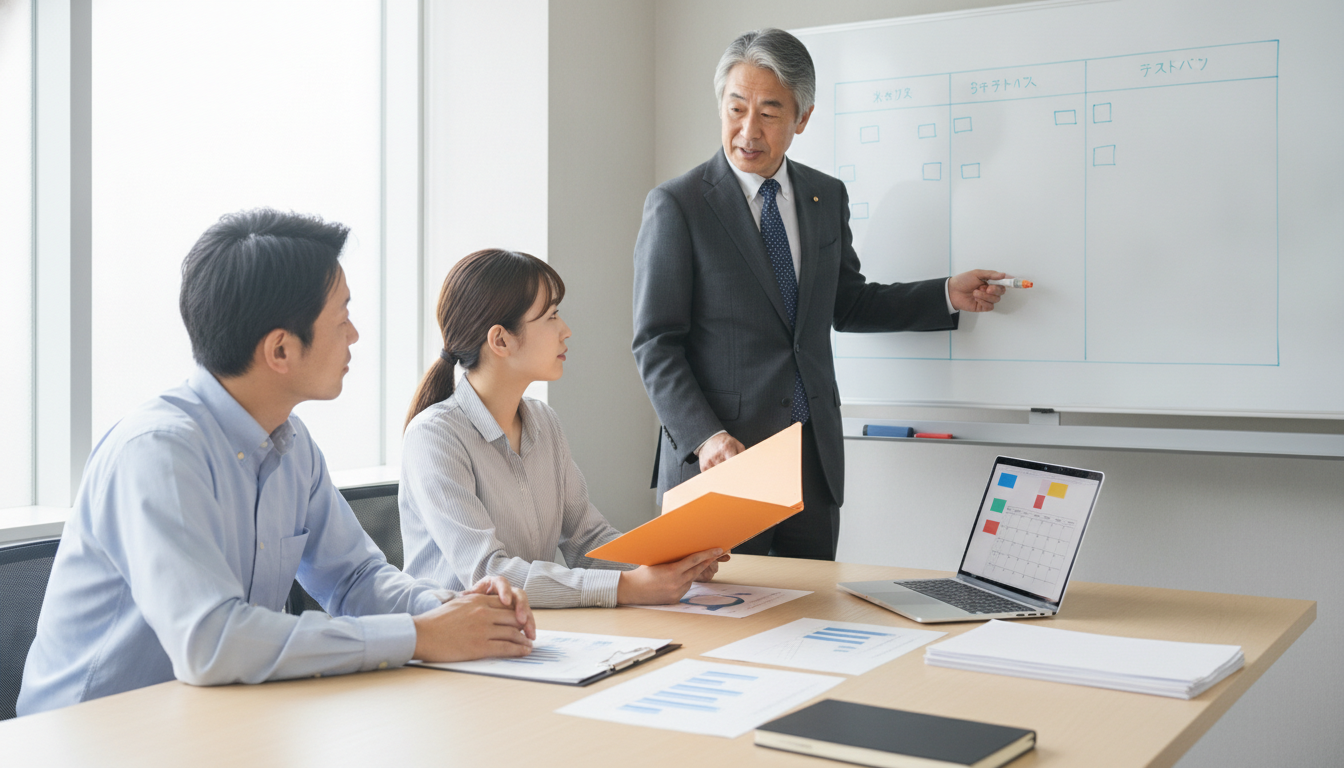
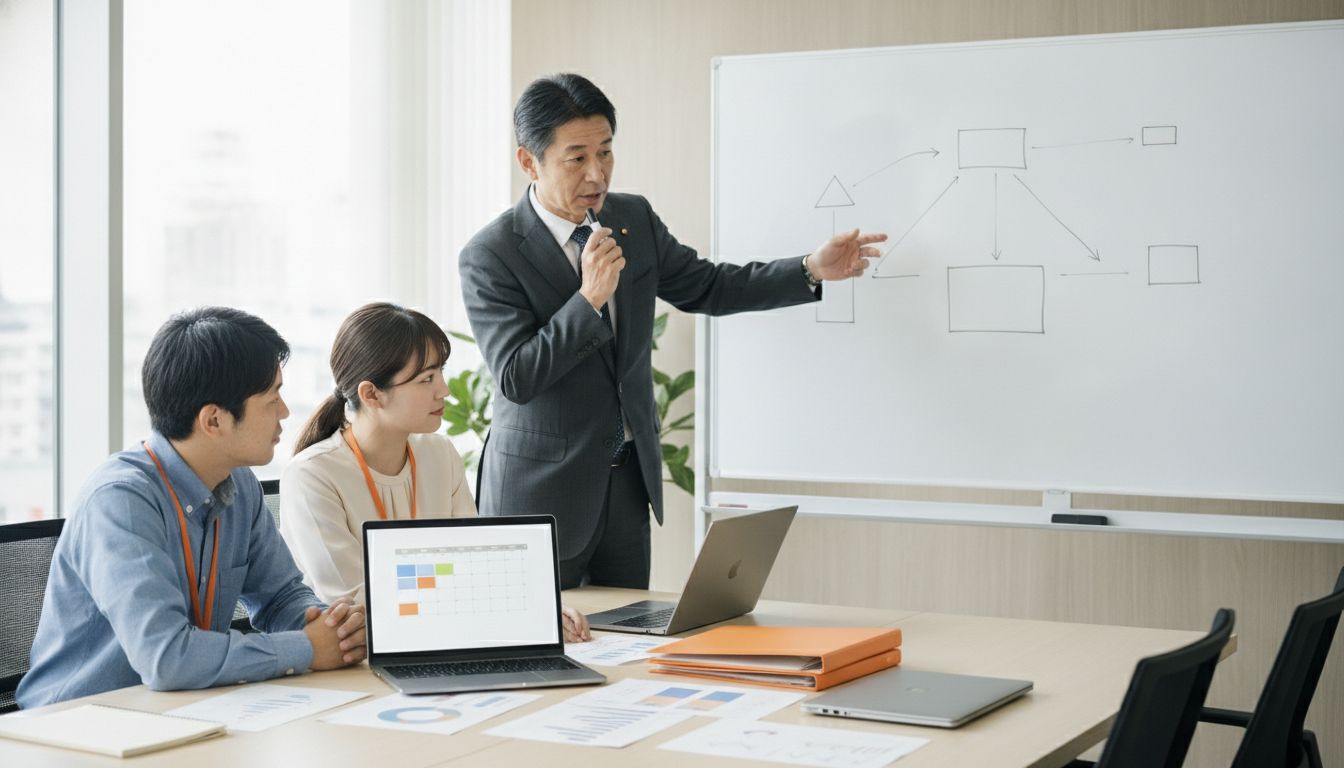
No.026: 社長の関与を必須にせず、採用を最優先にする担当者を置く内容に書き換え
- 3つの仕事に部署をまたいで適任の人を当てる内容に変更
- 兼任の限界と、採用を最優先にする担当者を置く理由の節を追加
- まとめ・FAQ・メタ情報を更新、画像1・2を再生成
- knowledge.md に K-004（適用範囲は No.026 のみ）を追加

Claude-Session: https://claude.ai/code/session_01MVhFnc9z1iMB51uu1opxbj

diff --git a/content/articles/out/No.026_article.html b/content/articles/out/No.026_article.html
@@ -1,74 +1,71 @@
-<!-- No.026 採用担当がいない会社は新卒採用をどう回す？｜「決める・会う・連絡する」に分ける
+<!-- No.026 採用担当がいない会社は新卒採用をどう回す？｜「決める・会う・連絡する」に分ける（v2 2026-09-28：社長の関与を必須にせず、部署をまたいで適任者を当てる内容に変更。採用を最優先にする担当者を置く理由を追加）
 タイトル（Studio の記事タイトル欄に入れる。本文には入れない）：採用担当がいない会社は新卒採用をどう回す？｜「決める・会う・連絡する」に分ける
-メタディスクリプション：採用担当がいない中小企業が新卒採用を回すには、採用の仕事を「決める」「会う」「連絡する」の3つに分け、社長・現場の社員・兼任の担当者で分担します。社長が出るべき場面、連絡を止めない仕組み、外部に任せてよいことと社内に残すことを、採用の現場に入ってきた立場から解説します。
+メタディスクリプション：採用担当がいない中小企業が新卒採用を回すには、採用の仕事を「決める」「会う」「連絡する」の3つに分け、部署をまたいでそれぞれに適任の人を当てます。兼任で回すときの役割と優先度の決め方、そして採用を最優先にする担当者を置くべき理由を、採用の現場に入ってきた立場から解説します。
 カテゴリ：6 採用体制・採用代行の選び方
-狙うプロンプト（層B）：採用担当 いない 中小企業／人事が一人 新卒採用 回し方／総務 兼任 採用
-H2 に指定する行：結論：全部を1人で抱えず、役割を3つに分ける／採用の仕事を3つに分けて担い手を決める／社長が担うのは「決めること」と「会うこと」／連絡と日程調整は、担当を1人決めて止めない／外部に任せてよいこと、社内に残すこと／まとめ／よくある質問
-画像（記事中）：【画像：会議 meeting】「採用の仕事を3つに〜」の直前／【画像：会社説明会 briefing】「社長が担うのは〜」の直前／【画像：担当者の事務作業 desk】「連絡と日程調整は〜」の直前
-表：「採用の仕事を3つに〜」の節に表1つ。Studio が表に非対応なら箇条書きに置き換える
+狙うプロンプト（層B）：採用担当 いない 中小企業／人事が一人 新卒採用 回し方／総務 兼任 採用／採用担当 専任 必要
+H2 に指定する行：結論：3つの仕事に適任の人を当て、いずれは採用を最優先にする担当者を置く／3つの仕事に、部署をまたいで適任の人を当てる／部署をまたぐときは、役割と優先度を先に決める／理想は、採用を最優先にする担当者を置くこと／まとめ／よくある質問
+画像（記事中）：【画像：会議 meeting】「3つの仕事に、部署をまたいで〜」の直前／【画像：会社説明会 briefing】「部署をまたぐときは〜」の直前／【画像：担当者の事務作業 desk】「理想は〜」の直前
+表：「3つの仕事に、部署をまたいで〜」の節に表1つ。Studio が表に非対応なら箇条書きに置き換える
 CTA：本文末尾の段落の下にボタンコンポーネント2つ。擬似ボタンは作らない
 著者ボックス：全記事共通。氏名「堀本 大然」、所属「株式会社VOCO」、役職「経営戦略本部マネージャー」、/member の本人ページへリンク
-一次情報：VOCO の運用（経営者が会社説明の場と一次面接に出る、当日〜3日以内の連絡、4回のリマインド、採用フルサポートの90%以上担当と週1回以上の定例）、採用担当がいない会社ほど「会う人手」と「決める人」が足りないという見立て（No.006）
+一次情報：堀本さんの指示（社長の関与は必須ではない。部署をまたいで適任者を当てる。理想は採用を最優先にする担当者の配置。兼任だと他業務が優先されて採用が止まり、会社の成長に響く）、VOCO の運用（当日〜3日以内の連絡、4回のリマインド、採用フルサポートの90%以上担当と週1回以上の定例）
 参考（構成の参考。文章は引用していない）：ネオキャリア「みんなの採用部」中小企業の新卒採用の課題／マルゴト「まるごと人事」採用担当の兼任／JMAM「中小企業の採用戦略」
 FAQPage JSON-LD：
 {"@context":"https://schema.org","@type":"FAQPage","mainEntity":[
-{"@type":"Question","name":"総務の兼任でも新卒採用は回せますか？","acceptedAnswer":{"@type":"Answer","text":"回せます。兼任の担当者には連絡と日程調整、記録を任せ、採用人数や内定の判断は社長が担います。役割を分けると、兼任でも学生を待たせずに進められます。"}},
-{"@type":"Question","name":"社長が採用に使う時間はどれくらい必要ですか？","acceptedAnswer":{"@type":"Answer","text":"時間の量より場面で決めます。シーズン初めの方針決め、会社説明の場、一次面接、内定の判断。この4つの場面に社長が出れば、残りは担当者や外部に任せられます。"}},
-{"@type":"Question","name":"採用代行に全部任せてもいいですか？","acceptedAnswer":{"@type":"Answer","text":"手を動かす仕事は任せられますが、決める仕事は社内に残します。採用人数や要件、内定の判断まで外部に任せると、入社後に「思っていた人と違う」が起きやすくなります。"}}]}
+{"@type":"Question","name":"総務の兼任でも新卒採用は回せますか？","acceptedAnswer":{"@type":"Answer","text":"回せます。兼任の担当者には連絡と日程調整、記録を任せ、決める仕事と会う仕事は、それぞれ適任の人に分けます。ただ、本業が忙しい時期に採用が止まりやすいため、採用を優先してよいと社内で決めておくことが大切です。"}},
+{"@type":"Question","name":"社長が採用に関わらないといけませんか？","acceptedAnswer":{"@type":"Answer","text":"必ずしも関わる必要はありません。大事なのは、採用人数や条件を決める権限を持った責任者がいることです。社長でも、役員や部門長でもかまいません。"}},
+{"@type":"Question","name":"採用担当者は専任で置くべきですか？","acceptedAnswer":{"@type":"Answer","text":"理想は、採用を最優先にできる担当者を置くことです。兼任だと、他の業務が忙しいときに採用が後回しになり、必要な時期に人が入らなくなります。専任が難しい場合も、採用を優先してよい担当者を決めてください。"}}]}
 -->
-<p><strong>採用担当がいない会社が新卒採用を回すには、採用の仕事を「決める」「会う」「連絡する」の3つに分け、それぞれの担い手を決めることです。</strong>社長は決めることと会うことを担い、連絡は担当を1人決めて止めません。人手が足りない部分だけを外部に任せます。</p>
-<p>「総務が片手間で採用もやっている」「社長が気づいたときに動くので、学生への返事が遅れる」。中小企業でよく聞く状況です。私たちが見てきた範囲では、採用担当がいない会社ほど、連絡を送る人手より、学生と会う人手と決める人が足りていません。</p>
+<p><strong>採用担当がいない会社が新卒採用を回すには、採用の仕事を「決める」「会う」「連絡する」の3つに分け、部署をまたいでそれぞれに適任の人を当てることです。</strong>ただし、これは担当者がいない間の回し方です。理想は、採用を最優先の仕事として担う担当者を置くことです。</p>
+<p>「総務が片手間で採用もやっている」「本業が忙しい時期は、学生への返事が止まってしまう」。中小企業でよく聞く状況です。担当者がいない前提での回し方と、それでも担当者を置くべき理由を、順に説明します。</p>
 
-<h2>結論：全部を1人で抱えず、役割を3つに分ける</h2>
-<p><strong>採用担当がいなくても、新卒採用は回せます。</strong>つまずくのは、採用の仕事を一つのかたまりとして誰かに任せ、その人が本業の合間に全部をこなそうとするときです。</p>
-<p>採用の仕事は、性質の違う3つに分けられます。①誰を何人採るか、内定を出すかを決める仕事。②説明会や面接で学生と会う仕事。③連絡、日程調整、記録の仕事。必要な時間も、向いている人も違います。</p>
-<p>3つに分けると、「社長が全部やる」「総務が全部やる」以外の組み方が見えてきます。</p>
+<h2>結論：3つの仕事に適任の人を当て、いずれは採用を最優先にする担当者を置く</h2>
+<p><strong>採用担当がいなくても、新卒採用は回せます。</strong>つまずくのは、採用の仕事を一つのかたまりとして誰か一人に任せ、その人が本業の合間に全部をこなそうとするときです。</p>
+<p>採用の仕事は、性質の違う3つに分けられます。<br>①誰を何人採るか、内定を出すかを決める仕事。<br>②説明会や面接で学生と会う仕事。<br>③連絡、日程調整、記録の仕事。<br>必要な時間も、向いている人も違います。</p>
+<p>3つに分ければ、一人に抱え込ませず、部署をまたいで組めます。ただ、兼任で回す形には限界があります。長く続けるなら、採用を最優先の仕事とする担当者を置くことが大切です。</p>
 
-<p>【画像：会議 meeting】社長と総務の担当者が、ホワイトボードに採用の役割分担を書き出している一場面</p>
-<h2>採用の仕事を3つに分けて担い手を決める</h2>
-<p><strong>3つの仕事と、担い手の目安を表にまとめます。</strong></p>
+<p>【画像：会議 meeting】複数の部署の社員が集まり、ホワイトボードに採用の役割分担を書き出している一場面</p>
+<h2>3つの仕事に、部署をまたいで適任の人を当てる</h2>
+<p><strong>3つの仕事と、当てる人の例を表にまとめます。</strong></p>
 <table>
-<tr><th>仕事</th><th>中身</th><th>担い手の目安</th></tr>
-<tr><td>決める</td><td>採用人数と要件、選考の基準、内定の判断、条件の見直し</td><td>社長（経営者）</td></tr>
-<tr><td>会う</td><td>会社説明、面接、内定後の面談</td><td>社長と現場の社員</td></tr>
-<tr><td>連絡する</td><td>説明会の案内、日程調整、リマインド、記録</td><td>担当者1名（兼任でよい）</td></tr>
+<tr><th>仕事</th><th>中身</th><th>当てる人の例</th></tr>
+<tr><td>決める</td><td>採用人数と要件、選考の基準、内定の判断、条件の見直し</td><td>採用の責任者（社長、役員、部門長など、判断を任された人）</td></tr>
+<tr><td>会う</td><td>会社説明、面接、内定後の面談</td><td>配属予定の部署の社員、年の近い先輩社員、人事や総務の担当</td></tr>
+<tr><td>連絡する</td><td>説明会の案内、日程調整、リマインド、記録</td><td>連絡の担当者1名（総務や営業事務などの兼任でもよい）</td></tr>
 </table>
-<p>ポイントは、「決める」を社長から外さないことです。要件や条件を変えられるのは経営者だけです。そこが決まらないまま担当者に任せると、担当者は動けず、学生を待たせることになります。</p>
-<p>「会う」は社長だけで抱えず、現場の社員にも入ってもらいます。学生は、入社後に一緒に働く人の話を聞きたがっています。</p>
+<p>社長が必ずどこかに出る必要はありません。大事なのは、それぞれの仕事に、責任を持って担う人が決まっていることです。</p>
+<p>決める仕事は、判断を任された責任者が担います。社長でも、役員や部門長でもかまいません。ただし、採用人数や条件を変える権限まで持っている人にします。権限のない人が決める役になると、判断のたびに確認が必要になり、学生を待たせます。</p>
+<p>会う仕事は、学生が入社後に一緒に働く部署の社員に入ってもらうと、話が具体的になります。学生は、入社後の自分に近い人の話を聞きたがっています。</p>
 
-<p>【画像：会社説明会 briefing】社長が会社説明会で、着席した学生たちに向けて自社の仕事を話している一場面</p>
-<h2>社長が担うのは「決めること」と「会うこと」</h2>
-<p><strong>社長の時間は、採用で最も効くところに使います。</strong>私たちは、会社説明の場と一次面接には経営者が出ることを勧めています。中小企業では、経営者と直接話した場面で学生の気持ちが動くことが多いからです。</p>
-<p>決めることでは、シーズンの初めに、採用人数、採る人の条件、選考の流れを決めます。途中では、内定を出すかどうかを速く決めます。判断が遅れると、その間に他社が内定を出します。</p>
-<p>逆に、社長がやらなくてよいのは、日程調整や案内の送付です。ここに社長の時間を使うと、決める仕事が後回しになります。</p>
-
-<p>【画像：担当者の事務作業 desk】兼任の担当者が、学生への連絡の予定表をパソコンで確認している一場面</p>
-<h2>連絡と日程調整は、担当を1人決めて止めない</h2>
-<p><strong>連絡は、担当を1人に決めます。</strong>兼任でかまいません。大事なのは、学生から見て「この人に連絡すればいい」が一人に決まっていることです。担当が曖昧だと、返事が抜けたり遅れたりします。</p>
+<p>【画像：会社説明会 briefing】配属予定の部署の社員が会社説明会で、着席した学生たちに自分の仕事を話している一場面</p>
+<h2>部署をまたぐときは、役割と優先度を先に決める</h2>
+<p><strong>部署をまたいで採用を回すときは、誰が何をいつまでにやるかを、シーズンの初めに決めておきます。</strong>「手が空いた人がやる」では、忙しい時期に誰も動かなくなります。</p>
+<p>連絡は、担当を1人に決めます。学生から見て「この人に連絡すればいい」が一人に決まっていないと、返事が抜けたり遅れたりします。</p>
 <p>私たちは、説明会や面談の後の連絡を、できるだけ当日、遅くとも3日以内に送ることを基準にしています。説明会や面接の前には、1週間前、3日前、2日前、1日前の4回リマインドを送ります。兼任でも回せるよう、文面はひな形にしておきます。</p>
-<p>記録も担当者の仕事です。誰といつ会い、次に何をするか。1枚の表で管理すれば、担当者が休んでも社長が状況を追えます。</p>
+<p>関わる社員の上司にも、採用での役割を伝えておきます。説明会や面接の予定は、部署の予定表に先に入れてもらいます。記録は1枚の表で管理し、関わる全員が状況を追えるようにします。</p>
 
-<h2>外部に任せてよいこと、社内に残すこと</h2>
-<p><strong>人手が足りない部分は、外部に任せる方法もあります。</strong>任せやすいのは、連絡と日程調整、説明会やイベントでの登壇、面接の日程管理など、手を動かす仕事です。</p>
-<p>社内に残すのは、「決める」仕事です。採用人数、要件、内定の判断は、外部に任せても最後は社内で決めることになります。私たちの採用フルサポートでも、採用業務の90%以上を担当しますが、方針は週1回以上の定例ミーティングで経営者と決めています。</p>
-<p>外部に任せる場合も、社長が学生と会う場面は残してください。中小企業の採用で、学生が入社を決める理由になりやすい場面だからです。</p>
+<p>【画像：担当者の事務作業 desk】採用担当者が、学生への連絡の予定表をパソコンで確認している一場面</p>
+<h2>理想は、採用を最優先にする担当者を置くこと</h2>
+<p><strong>兼任で回す形は、いずれ限界が来ます。</strong>他の業務を抱えていると、忙しい時期にはどうしてもそちらが優先になり、学生への連絡や説明会の準備が止まります。</p>
+<p>採用が止まると、影響は採用の中だけでは終わりません。必要な時期に人が入らなければ、事業の計画が遅れ、今いる社員の負担も増えます。採用の遅れは、会社の成長の遅れにつながります。</p>
+<p>だからこそ、採用を最優先の仕事として担う担当者を置くことが、改めて大事なポイントになります。専任が難しい場合も、「採用の仕事を他の業務より優先してよい」と社内で決め、その働きを評価にも反映させた人を置いてください。</p>
+<p>担当者を置くまでの間は、手を動かす仕事を外部に任せる方法もあります。私たちの採用フルサポートでは、採用業務の90%以上を担当しますが、方針は週1回以上の定例ミーティングで社内の責任者と決めています。判断は社内に残し、動く手を外部で補う形です。</p>
 
 <h2>まとめ</h2>
 <ul>
 <li>採用担当がいなくても、仕事を「決める」「会う」「連絡する」の3つに分ければ回せる。</li>
-<li>決めるのは社長。採用人数、要件、内定の判断を担当者任せにしない。</li>
-<li>社長は会社説明の場と一次面接に出る。日程調整は社長の仕事にしない。</li>
-<li>連絡は担当を1人に決め、当日〜3日以内の連絡と4回のリマインドをひな形で回す。</li>
-<li>外部に任せるのは手を動かす仕事。決める仕事と社長が学生と会う場面は社内に残す。</li>
+<li>3つの仕事には、部署をまたいで適任の人を当てる。社長が必ず出る必要はなく、決める役は権限を持った責任者が担う。</li>
+<li>部署をまたぐときは、役割と優先度をシーズンの初めに決め、連絡の担当は1人に絞る。</li>
+<li>兼任では忙しい時期に採用が止まり、会社の成長に響く。理想は、採用を最優先にする担当者を置くこと。</li>
 </ul>
 
 <h2>よくある質問</h2>
 <h3>総務の兼任でも新卒採用は回せますか？</h3>
-<p>回せます。兼任の担当者には連絡と日程調整、記録を任せ、採用人数や内定の判断は社長が担います。役割を分けると、兼任でも学生を待たせずに進められます。</p>
-<h3>社長が採用に使う時間はどれくらい必要ですか？</h3>
-<p>時間の量より場面で決めます。シーズン初めの方針決め、会社説明の場、一次面接、内定の判断。この4つの場面に社長が出れば、残りは担当者や外部に任せられます。</p>
-<h3>採用代行に全部任せてもいいですか？</h3>
-<p>手を動かす仕事は任せられますが、決める仕事は社内に残します。採用人数や要件、内定の判断まで外部に任せると、入社後に「思っていた人と違う」が起きやすくなります。</p>
+<p>回せます。兼任の担当者には連絡と日程調整、記録を任せ、決める仕事と会う仕事は、それぞれ適任の人に分けます。ただ、本業が忙しい時期に採用が止まりやすいため、採用を優先してよいと社内で決めておくことが大切です。</p>
+<h3>社長が採用に関わらないといけませんか？</h3>
+<p>必ずしも関わる必要はありません。大事なのは、採用人数や条件を決める権限を持った責任者がいることです。社長でも、役員や部門長でもかまいません。</p>
+<h3>採用担当者は専任で置くべきですか？</h3>
+<p>理想は、採用を最優先にできる担当者を置くことです。兼任だと、他の業務が忙しいときに採用が後回しになり、必要な時期に人が入らなくなります。専任が難しい場合も、採用を優先してよい担当者を決めてください。</p>
 
 <p>採用のことを、一度話してみませんか。どんな段階でも構いません。「まだ検討中」でも大歓迎です。現場に入って動いてきた立場から、貴社の状況に合わせてお答えします。</p>
 <p>この記事を書いた人：堀本 大然（株式会社VOCO 経営戦略本部マネージャー）。企業の採用担当として年間100回以上の採用イベントに登壇し、30都道府県・20業種の新卒採用を支援しています。</p>

diff --git a/tools/aeo/HANDOFF.md b/tools/aeo/HANDOFF.md
@@ -138,6 +138,13 @@
 - 冒頭・結論 H2・2〜3週間前の節・まとめ・FAQ（2問目を「当日の目標の数字はどう決めればいいですか？」に差し替え）・メタ情報を更新。1週間前の節にあった目標の段落は2〜3週間前に統合。画像1を再生成。2639字で合格。
 - 旧ドキュメントで堀本さんが冒頭の①②③を改行していたため、正本も <br> で同じ形にした。旧ドキュメントはゴミ箱へ、新ドキュメントに差し替え（ID: 1M2piDlsaZwZXTKdnweHuT5z95nOy5ChslG3bMezNdT4）。
 
+### 4-13. 2026-09-28 No.026 を「社長の関与は必須ではない」「理想は採用を最優先にする担当者」の内容に書き換え
+
+- 堀本さん指示：社長が必ず話す・面接に出ることは必須ではない。「決める・会う・連絡する」の分け方は残し、部署をまたいで適任の人を当てる。理想は採用担当を置くこと（兼任だと他業務が優先されて採用が止まり、会社の成長に響くため、採用を最優先にする担当者の配置が大事）。
+- 「社長が担うのは〜」「外部に任せてよいこと〜」の2節をやめ、「部署をまたぐときは、役割と優先度を先に決める」「理想は、採用を最優先にする担当者を置くこと」に差し替え。表の担い手は「採用の責任者（社長・役員・部門長など判断を任された人）」に。FAQ も3問とも書き換え。画像1・2を再生成。2416字で合格。
+- **この方針は No.026 だけに適用**（他記事の「経営者が出る場面」は変えていない）。knowledge.md K-004 に記録。
+- 旧ドキュメントで結論節の①②③が改行されていたため、正本も <br> で同じ形にした。
+
 ## 5. ファイルの地図
 
 - `content/articles/out/No.xxx_article.html` … 記事の正本（先頭コメントにタイトル／メタ／狙うプロンプト／H2 一覧／画像位置／表・FAQ・著者の注記／FAQPage JSON-LD）
